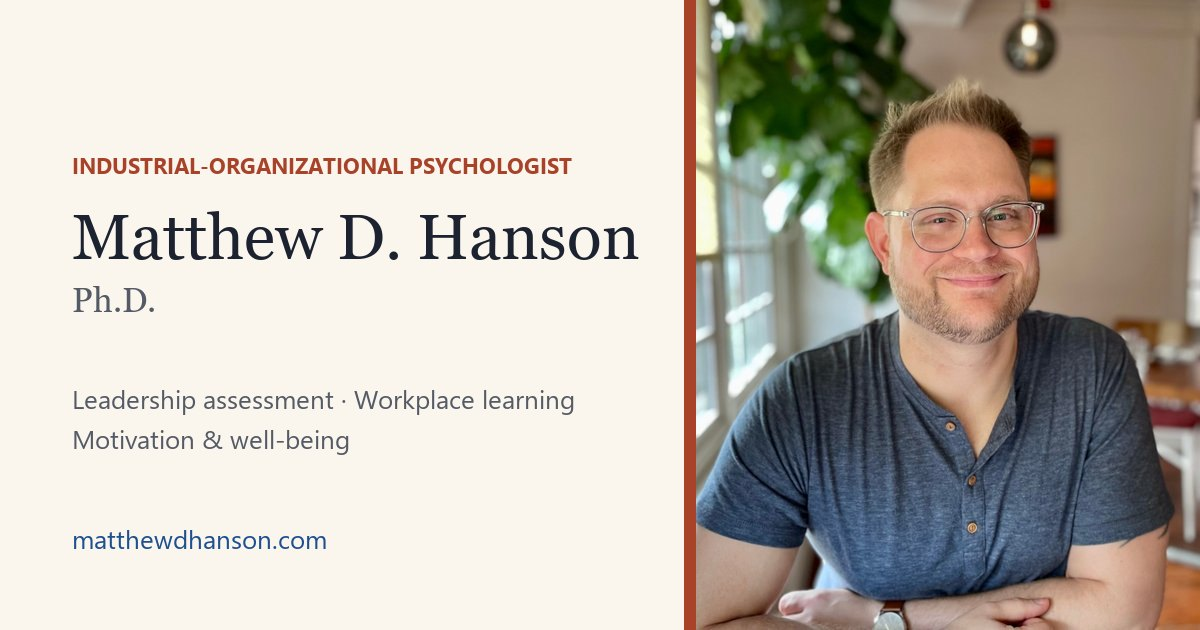
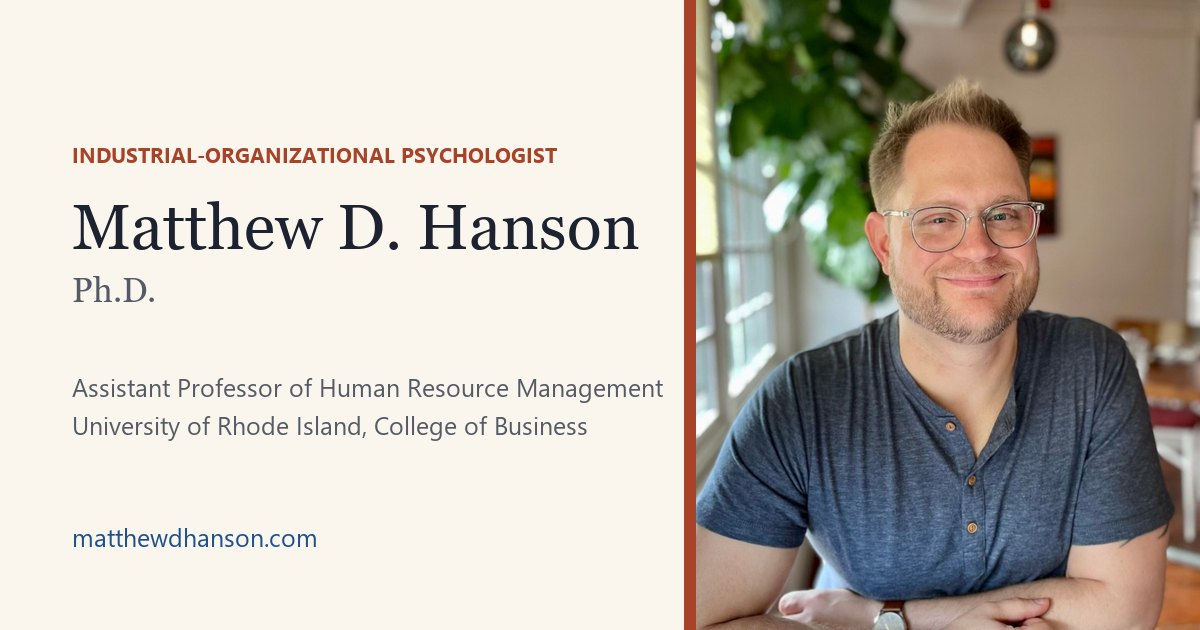
Update site for URI assistant professor role
Leads with the Fred '78 and Sue Newton Assistant Professorship of Human
Resource Management at URI; moves the Army role to 2024-2026; updates the
disclaimer, structured data, share image, and Evergreen link (.com).

Changed region(s): [[0.0617, 0.2111, 0.555, 0.5127], [0.0617, 0.6032, 0.555, 0.7238], [0.0617, 0.8444, 0.2775, 0.8746]]

diff --git a/OneDrive/Documents/Personal/Personal Website/personal-site/index.html b/OneDrive/Documents/Personal/Personal Website/personal-site/index.html
@@ -4,13 +4,13 @@
 <meta charset="utf-8">
 <meta name="viewport" content="width=device-width, initial-scale=1">
 <title>Matthew D. Hanson, Ph.D. · Industrial-Organizational Psychologist</title>
-<meta name="description" content="Matthew D. Hanson is an industrial-organizational psychologist who studies how people learn, lead, and recover at work, and builds assessments that measure it well.">
+<meta name="description" content="Matthew D. Hanson is an assistant professor of human resource management at the University of Rhode Island who studies how people learn, lead, and recover at work.">
 <link rel="canonical" href="https://matthewdhanson.com/">
 <meta property="og:type" content="profile">
 <meta property="og:site_name" content="Matthew D. Hanson, Ph.D.">
 <meta property="og:image:alt" content="Matthew D. Hanson, Ph.D., industrial-organizational psychologist">
 <meta property="og:title" content="Matthew D. Hanson, Ph.D. · Industrial-Organizational Psychologist">
-<meta property="og:description" content="Matthew D. Hanson is an industrial-organizational psychologist who studies how people learn, lead, and recover at work, and builds assessments that measure it well.">
+<meta property="og:description" content="Matthew D. Hanson is an assistant professor of human resource management at the University of Rhode Island who studies how people learn, lead, and recover at work.">
 <meta property="og:url" content="https://matthewdhanson.com/">
 <meta property="og:image" content="https://matthewdhanson.com/og.jpg">
 <meta property="og:image:width" content="1200">
@@ -33,10 +33,11 @@
  "@id": "https://matthewdhanson.com/#person",
  "name": "Matthew D. Hanson",
  "honorificSuffix": "Ph.D.",
- "jobTitle": "Research Psychologist",
+ "jobTitle": "Assistant Professor of Human Resource Management",
  "worksFor": {
-  "@type": "GovernmentOrganization",
-  "name": "Center for the Army Profession and Leadership, U.S. Army"
+  "@type": "CollegeOrUniversity",
+  "name": "University of Rhode Island, College of Business",
+  "url": "https://web.uri.edu/business/"
  },
  "description": "Industrial-organizational psychologist studying leadership assessment, workplace learning, and work motivation and well-being.",
  "url": "https://matthewdhanson.com/",
@@ -97,9 +98,9 @@
 <section class="hero">
   <div class="wrap">
     <div>
-      <p class="eyebrow rise">Industrial-Organizational Psychologist</p>
+      <p class="eyebrow rise">Assistant Professor &middot; University of Rhode Island</p>
       <h1 class="rise rise-2">Evidence for how people learn, lead, and recover at work.</h1>
-      <p class="lede rise rise-3">I&rsquo;m Matthew Hanson, an industrial-organizational psychologist in Rhode Island. I build and validate leadership assessments, and I study how training design and psychological needs shape learning, motivation, and recovery at work.</p>
+      <p class="lede rise rise-3">I&rsquo;m Matthew Hanson, an industrial-organizational psychologist and assistant professor of human resource management in URI&rsquo;s College of Business. I build and validate leadership assessments, and I study how training design and psychological needs shape learning, motivation, and recovery at work.</p>
       <div class="btn-row rise rise-4">
         <a class="btn btn-primary" href="research.html">Explore my research</a>
         <a class="btn btn-secondary" href="matthew-hanson-cv.pdf">Download CV <span class="meta">PDF</span></a>
@@ -122,7 +123,7 @@
     <li><span class="k">8 journal articles</span><span class="v">plus a Routledge chapter and two DTIC reports</span></li>
     <li><span class="k">$395K in grants</span><span class="v">as co-investigator, Defense Health Program</span></li>
     <li><span class="k">Army &amp; Navy</span><span class="v">assessment research for leaders and submariners</span></li>
-    <li><span class="k">Teaching</span><span class="v">I-O Psychology and Learning, University at Albany</span></li>
+    <li><span class="k">Teaching</span><span class="v">Human resource management at URI</span></li>
   </ul>
 </div>
 
@@ -133,9 +134,9 @@
       <h2 id="about-h">Scientist-practitioner</h2>
     </div>
     <div class="prose">
-      <p>I&rsquo;m a Research Psychologist at the U.S. Army&rsquo;s Center for the Army Profession and Leadership, where I develop and validate leadership assessments and help turn research into feedback that leaders can use. Before that, I spent three years with Leidos at the Naval Submarine Medical Research Laboratory, building leadership competency models and studying what helps sailors succeed in the submarine training pipeline.</p>
+      <p>I&rsquo;m the Fred &rsquo;78 and Sue Newton Assistant Professor of Human Resource Management in the University of Rhode Island&rsquo;s College of Business. I came to URI from applied research. At the U.S. Army&rsquo;s Center for the Army Profession and Leadership, I developed and validated leadership assessments and helped turn research into feedback leaders could use. Before that, I spent three years with Leidos at the Naval Submarine Medical Research Laboratory, building leadership competency models and studying what helps sailors succeed in the submarine training pipeline.</p>
       <p>My research asks three connected questions. How do we design training that actually helps people learn? How do we measure people accurately and fairly when decisions about their careers depend on it? And what do people need, at work and away from it, to stay motivated and recover? I earned my Ph.D. in industrial-organizational psychology at the University at Albany, SUNY, and my M.S. in experimental psychology at the University of Wisconsin Oshkosh.</p>
-      <p>Most of my work happens where research meets operational decisions, so I design studies whose results can be acted on. I live in Rhode Island with my family.</p>
+      <p>That background shapes how I research and teach: I design studies whose results organizations can act on, and I bring real assessment programs and workplace problems into the classroom. I live in Rhode Island with my family.</p>
     </div>
   </div>
 </section>
@@ -240,9 +241,9 @@
       <div>
         <h3>Science-based assessment for small organizations</h3>
         <p>Evergreen Assessments LLC is my independent practice, offering practical, research-based assessment and feedback for small organizations. Its first product, Groundwise, is a self-assessment for frontline supervisors, now in development.</p>
-        <p class="fine muted">Evergreen is a private business, run on my own time, separate from my federal role.</p>
+        <p class="fine muted">Evergreen is a private business, run on my own time and separate from my role at URI.</p>
       </div>
-      <a class="btn btn-secondary" href="https://evergreenassessments.netlify.app">Visit Evergreen &rarr;</a>
+      <a class="btn btn-secondary" href="https://evergreenassessments.com">Visit Evergreen &rarr;</a>
     </div>
   </div>
 </section>
@@ -253,11 +254,11 @@
     <div>
       <p class="eyebrow">Contact</p>
       <h2 id="contact-h">Let&rsquo;s talk about measurement, learning, or leadership.</h2>
-      <p class="lead">I&rsquo;m especially interested in collaborating on mindfulness and self-regulation in training, need satisfaction and recovery, and validity and fairness in leadership assessment, including field studies with Rhode Island organizations. Students and practitioners are welcome to write too. Email is the best way to reach me.</p>
+      <p class="lead">I&rsquo;m especially interested in collaborating on mindfulness and self-regulation in training, need satisfaction and recovery, and validity and fairness in leadership assessment, including field studies with Rhode Island organizations. URI students and HR practitioners are welcome to write too. Email is the best way to reach me.</p>
     </div>
     <dl class="contact-list">
       <div><dt>Email</dt><dd><a class="big" href="mailto:matthew.d.hanson@outlook.com">matthew.d.hanson@outlook.com</a></dd></div>
-      <div><dt>Based in</dt><dd>Rhode Island</dd></div>
+      <div><dt>Faculty</dt><dd>College of Business, University of Rhode Island<br>Kingston, RI</dd></div>
       <div><dt>Profiles</dt><dd><a href="https://scholar.google.com/citations?user=Q8gXnk0AAAAJ&hl=en">Google Scholar</a> &middot; <a href="https://www.linkedin.com/in/matthew-hanson-phd-83102324">LinkedIn</a></dd></div>
     </dl>
   </div>
@@ -266,7 +267,7 @@
 </main>
 <footer class="site-footer">
   <div class="wrap">
-    <p class="disclaimer">This is a personal website. Views expressed here are my own and do not represent the U.S. Army, the Department of Defense, or the U.S. Government. Mention of my federal position is for identification only and does not imply endorsement.</p>
+    <p class="disclaimer">This is a personal website. Views expressed here are my own and do not represent the University of Rhode Island. Descriptions of my earlier work with the U.S. Army and U.S. Navy do not imply their endorsement. Evergreen Assessments LLC is a private business, separate from my university role.</p>
     <ul>
       <li><a href="https://scholar.google.com/citations?user=Q8gXnk0AAAAJ&hl=en">Google Scholar</a></li>
       <li><a href="https://www.linkedin.com/in/matthew-hanson-phd-83102324">LinkedIn</a></li>

diff --git a/OneDrive/Documents/Personal/Personal Website/personal-site/research.html b/OneDrive/Documents/Personal/Personal Website/personal-site/research.html
@@ -50,7 +50,7 @@
   <div class="wrap">
     <p class="eyebrow">Research</p>
     <h1>Field research on how people learn, are assessed, and stay motivated at work.</h1>
-    <p class="lede">I work as a scientist-practitioner across academic, government, and military settings. I use randomized experiments, longitudinal surveys, structural equation modeling, and multilevel models, and I work closely with the organizations involved so the findings inform real decisions.</p>
+    <p class="lede">My work spans academic, government, and military settings, and now continues at the University of Rhode Island. I use randomized experiments, longitudinal surveys, structural equation modeling, and multilevel models, and I work closely with the organizations involved so the findings inform real decisions.</p>
   </div>
 </section>
 
@@ -98,7 +98,7 @@
         <p class="q">How do we know a leadership assessment measures something real, and treats people fairly?</p>
         <div class="body">
           <p>Organizations make decisions about selection, development, and promotion based on assessments. I build and evaluate those tools: defining what good performance looks like in a specific role, writing items that capture it, and testing whether scores are reliable, valid, and fair.</p>
-          <p>At the Naval Submarine Medical Research Laboratory I contributed to the Submarine Environment Fit (SUBFIT) assessment and to a leadership competency model for submarine command teams, along with a method for gathering criterion-related validity evidence for it. Today I lead the development and validation of leadership assessments that support Army leader development.</p>
+          <p>At the Naval Submarine Medical Research Laboratory I contributed to the Submarine Environment Fit (SUBFIT) assessment and to a leadership competency model for submarine command teams, along with a method for gathering criterion-related validity evidence for it. At the Center for the Army Profession and Leadership, I led the development and validation of leadership assessments that support Army leader development.</p>
         </div>
         <div class="takeaway">
           <p class="eyebrow">Takeaway</p>
@@ -163,10 +163,10 @@
         <p class="meta">Center for the Army Profession and Leadership &middot; 2024&ndash;2025</p>
       </article>
       <article class="card">
-        <p class="status">Ongoing</p>
+        <p class="status done">Army research</p>
         <h3>Leader behavior &amp; command climate</h3>
-        <p>Co-leading studies of how leader behavior relates to command climate, with the goal of giving leaders actionable steps.</p>
-        <p class="meta">Co-investigator &middot; 2025&ndash;present</p>
+        <p>Co-led studies of how leader behavior relates to command climate, with the goal of giving leaders actionable steps.</p>
+        <p class="meta">Center for the Army Profession and Leadership &middot; 2025&ndash;2026</p>
       </article>
       <article class="card">
         <p class="status done">Completed</p>
@@ -187,7 +187,7 @@
 </main>
 <footer class="site-footer">
   <div class="wrap">
-    <p class="disclaimer">This is a personal website. Views expressed here are my own and do not represent the U.S. Army, the Department of Defense, or the U.S. Government. Mention of my federal position is for identification only and does not imply endorsement.</p>
+    <p class="disclaimer">This is a personal website. Views expressed here are my own and do not represent the University of Rhode Island. Descriptions of my earlier work with the U.S. Army and U.S. Navy do not imply their endorsement. Evergreen Assessments LLC is a private business, separate from my university role.</p>
     <ul>
       <li><a href="https://scholar.google.com/citations?user=Q8gXnk0AAAAJ&hl=en">Google Scholar</a></li>
       <li><a href="https://www.linkedin.com/in/matthew-hanson-phd-83102324">LinkedIn</a></li>

diff --git a/OneDrive/Documents/Personal/Personal Website/personal-site/cv.html b/OneDrive/Documents/Personal/Personal Website/personal-site/cv.html
@@ -67,10 +67,15 @@
         <h2>Positions</h2>
         <ol class="timeline">
           <li>
-            <p class="when">2024&ndash;present</p>
+            <p class="when">2026&ndash;present</p>
+            <h3>Fred &rsquo;78 and Sue Newton Assistant Professor of Human Resource Management</h3>
+            <p class="org">College of Business, University of Rhode Island &middot; Kingston, RI</p>
+          </li>
+          <li>
+            <p class="when">2024&ndash;2026</p>
             <h3>Research Psychologist, Industrial-Organizational Psychology</h3>
             <p class="org">Center for the Army Profession and Leadership, U.S. Army</p>
-            <p>Leads research on leadership assessment and development, including the design, validation, and delivery of assessment programs. Serves as an internal expert on assessment design, feedback reports, and professional writing, and briefs senior leaders on evidence-based assessment decisions.</p>
+            <p>Led research on leadership assessment and development, including the design, validation, and delivery of assessment programs. Served as an internal expert on assessment design, feedback reports, and professional writing, and briefed senior leaders on evidence-based assessment decisions.</p>
           </li>
           <li>
             <p class="when">2021&ndash;2024</p>
@@ -156,7 +161,7 @@
 </main>
 <footer class="site-footer">
   <div class="wrap">
-    <p class="disclaimer">This is a personal website. Views expressed here are my own and do not represent the U.S. Army, the Department of Defense, or the U.S. Government. Mention of my federal position is for identification only and does not imply endorsement.</p>
+    <p class="disclaimer">This is a personal website. Views expressed here are my own and do not represent the University of Rhode Island. Descriptions of my earlier work with the U.S. Army and U.S. Navy do not imply their endorsement. Evergreen Assessments LLC is a private business, separate from my university role.</p>
     <ul>
       <li><a href="https://scholar.google.com/citations?user=Q8gXnk0AAAAJ&hl=en">Google Scholar</a></li>
       <li><a href="https://www.linkedin.com/in/matthew-hanson-phd-83102324">LinkedIn</a></li>

diff --git a/OneDrive/Documents/Personal/Personal Website/personal-site/publications.html b/OneDrive/Documents/Personal/Personal Website/personal-site/publications.html
@@ -423,7 +423,7 @@
 </main>
 <footer class="site-footer">
   <div class="wrap">
-    <p class="disclaimer">This is a personal website. Views expressed here are my own and do not represent the U.S. Army, the Department of Defense, or the U.S. Government. Mention of my federal position is for identification only and does not imply endorsement.</p>
+    <p class="disclaimer">This is a personal website. Views expressed here are my own and do not represent the University of Rhode Island. Descriptions of my earlier work with the U.S. Army and U.S. Navy do not imply their endorsement. Evergreen Assessments LLC is a private business, separate from my university role.</p>
     <ul>
       <li><a href="https://scholar.google.com/citations?user=Q8gXnk0AAAAJ&hl=en">Google Scholar</a></li>
       <li><a href="https://www.linkedin.com/in/matthew-hanson-phd-83102324">LinkedIn</a></li>
